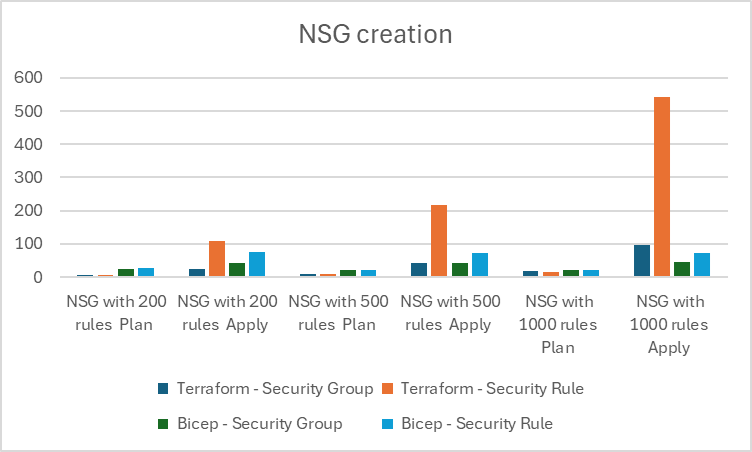
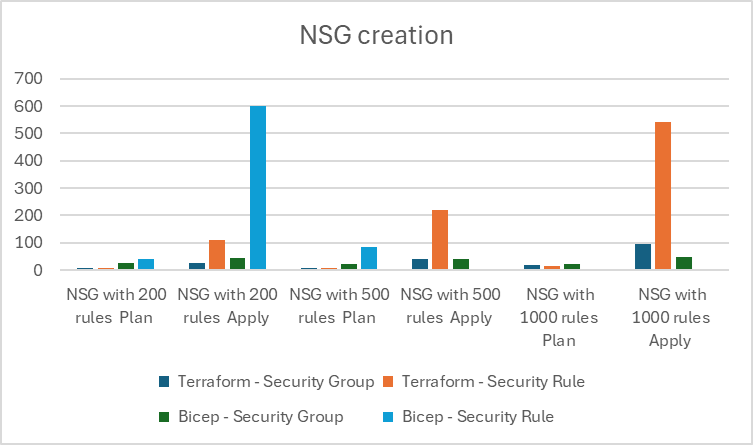
update README

diff --git a/README.md b/README.md
@@ -31,7 +31,8 @@ The action is triggered by a push to the main branch if change is dedected on co
 
 # Results
 
-The results are in seconds. The results are the smallest value of multiple runs.
+The results are in seconds. The results are the smallest value of multiple runs.  
+x = test failed after multiple runs.
 
 ## Creation from scratch
 
@@ -56,16 +57,16 @@ I have remove from the graph the destroy, Bicep is not able to destroy the resou
 
 | Test  | Action  | Terraform - Security Group | Terraform - Security Rule | Bicep - Security Group | Bicep - Security Rule |
 |---|---|---:|---:|---:|---:|
-| NSG with 2 rules  | Plan  | 3  | 5  | 21 | x |
-| NSG with 2 rules  | Apply  | 20  | 21  | 42 | x |
+| NSG with 2 rules  | Plan  | 3  | 5  | 21 | 23 |
+| NSG with 2 rules  | Apply  | 20  | 21  | 42 | 78 |
 |||||||
-| Update from 2 rules to 200 rules  | Plan  | 6  | 5  | 21 | x |
-| Update from 2 rules to 200 rules  | Apply  | 15  | 87  | 43 | x |
+| Update from 2 rules to 200 rules  | Plan  | 6  | 5  | 21 | 52 |
+| Update from 2 rules to 200 rules  | Apply  | 15  | 87  | 43 | 141 |
 |||||||
-| Update from 200 rules to 500 rules  | Plan  | 14  | 22  | 21 | x |
-| Update from 200 rules to 500 rules  | Apply  | 38  | 173  | 43 | x |
+| Update from 200 rules to 500 rules  | Plan  | 14  | 22  | 21 | 176 |
+| Update from 200 rules to 500 rules  | Apply  | 38  | 173  | 43 | 391 |
 |||||||
-| Update from 500 rules to 1000 rules  | Plan  | 36  | 88  | 22 | x |
+| Update from 500 rules to 1000 rules  | Plan  | 36  | 88  | 22 | 21 |
 | Update from 500 rules to 1000 rules  | Apply  | 107  | 400  | 43 | x |
 
 ![result graph](images/image-2.png)
@@ -84,11 +85,9 @@ Managing NSG with security group is faster than managing NSG with security rule.
 
 ### Terraform vs Bicep
 
-Both technologies are not working the same way. In Terraform, working in security group level is faster than working in security rule level. In Bicep, the difference is less significant. The security group is faster than the security rule but the difference is not as significant as in Terraform.
-
 If we focus on security group option, Terraform is faster than Bicep for small number of rules (until 500 rules). For large number of rules, Bicep is faster than Terraform.
 
-Security rules option with Terraform provide the worst performance in particular for large number of rules. Bicep is really stable in terms of performance no matter the number of rules.
+Security rules option with Terraform or Bicep provide bad performance in particular for large number of rules. As Bicep is generated one ARM deployment for each rule, I was not able to test the creation of NSG with high number of rules because at least one deployment failed.
 
 ## Network traffic
 
@@ -106,8 +105,8 @@ This result is not surprising. The network_security_rule resource is creating on
 
 # Conclusion
 
-In Terraform, using network_security_group resource is faster than the network_security_rule resource. The difference is more significant when creating, updating or deleting a large number of rules.
+In Terraform or in Bicep, working on security group resource is faster than the security rule resource. The difference is more significant when creating or updating a large number of rules.
 
-For Bicep, the difference is less significant. Using networkSecurityGroup resource is really stable in terms of time no matter the number of rules. The networkSecurityRule resource is a bit slower but the difference is not as significant as in Terraform.
+Terraform seems to be faster for small number (1-500) of rules and Bicep for large number of rules (500-1000).
 
-The behavior of the two ressources to manage NSG is not the same. The network_security_group resource will remove any rule not defined in the Terraform script. The network_security_rule resource will only manage the rules defined in the Terraform script (additional rules can be managed on another script or using the portal).
+The behavior of the two ressources to manage NSG is not the same. Working on  security group level will remove any rule not defined in the script. The security rule level will only manage the rules defined in the script (additional rules can be managed on another script or using the portal).
